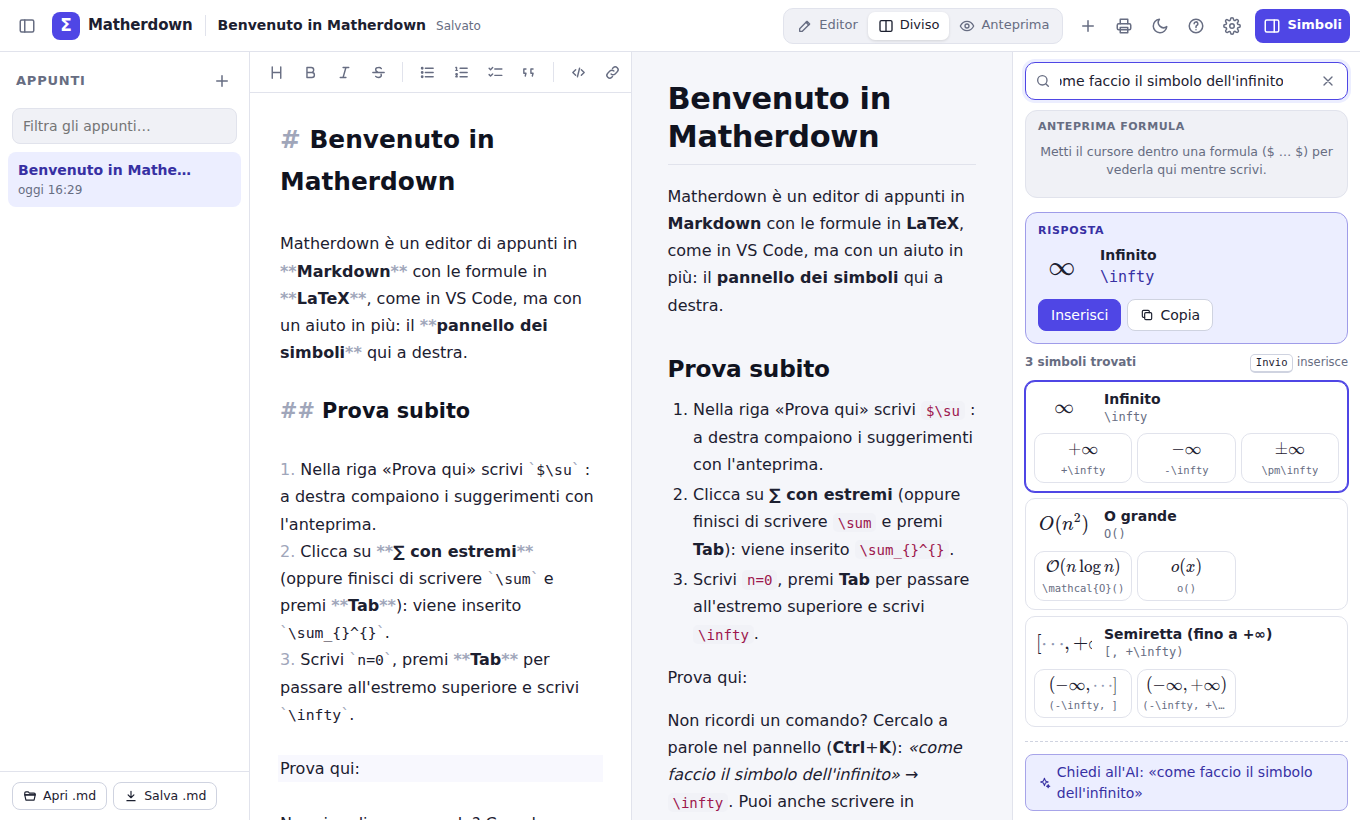
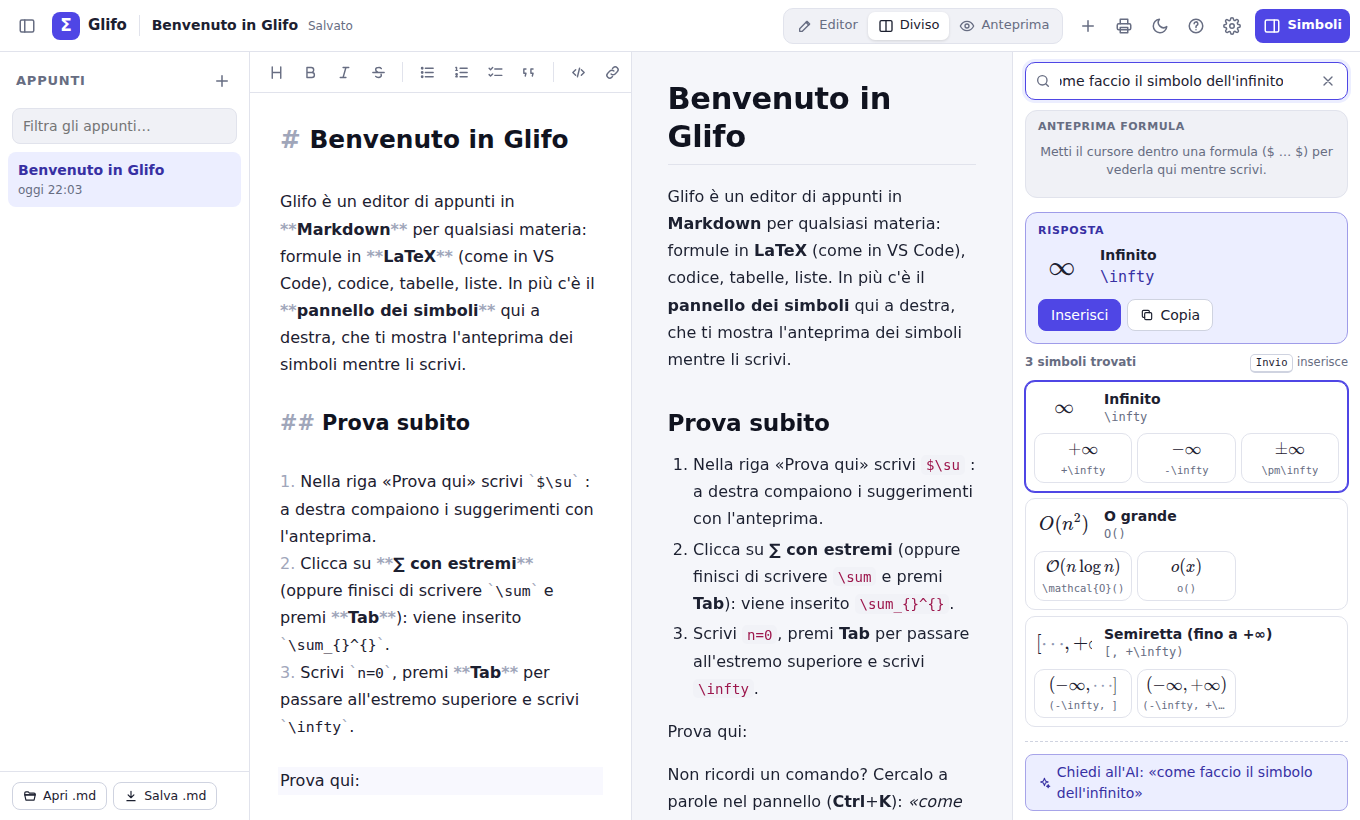
Nuovo nome: Glifo
Il progetto non è solo per la matematica (analisi, statistica, fisica,
programmazione…), quindi cambia nome da Matherdown a Glifo.

- Nome aggiornato in app, manifest PWA, pagina, pacchetto, README e schermate.
- Dati salvati: le chiavi passano da "matherdown.*" a "glifo.*"; all'avvio
  quelle vecchie vengono copiate sotto il nuovo nome, così nessun appunto
  va perso (test in tests/storage.test.ts).
- Nota di benvenuto riscritta con esempi di più materie, anche codice Java.

Claude-Session: https://claude.ai/code/session_01RXPM1KnincAVgBvXaYLYqS

diff --git a/src/main.ts b/src/main.ts
@@ -6,7 +6,7 @@ import { MarkdownEditor } from './editor/editor'
 import { deriveTitle, NotesStore, type Note } from './store/notes'
 import { loadSettings, saveSettings, type Settings, type ViewMode } from './store/settings'
 import { downloadText, fileNameFor, openMarkdownFiles, saveMarkdownFile } from './store/files'
-import { storageAvailable } from './store/storage'
+import { migrateKeyPrefix, storageAvailable } from './store/storage'
 import { ICONS, h, icon } from './ui/dom'
 import { confirmDialog, openHelpDialog, openSettingsDialog } from './ui/dialogs'
 import { inClaudeViewer } from './host'
@@ -15,6 +15,9 @@ import { Preview } from './ui/preview'
 import { SidePanel } from './ui/sidePanel'
 import { toast } from './ui/toast'
 import { createToolbar } from './ui/toolbar'
+
+// Il progetto si chiamava Matherdown: recupera gli appunti salvati con il vecchio nome.
+migrateKeyPrefix('matherdown.', 'glifo.')
 
 const settings: Settings = loadSettings()
 const store = new NotesStore()
@@ -90,7 +93,7 @@ const topbar = h(
     'div',
     { class: 'brand' },
     h('span', { class: 'brand-mark', attrs: { 'aria-hidden': 'true' } }, 'Σ'),
-    h('span', { class: 'brand-name' }, 'Matherdown'),
+    h('span', { class: 'brand-name' }, 'Glifo'),
   ),
   h('div', { class: 'doc-info' }, titleEl, statusEl),
   h('div', { class: 'topbar-spacer' }),
@@ -270,7 +273,7 @@ function flushSave(): void {
   const ok = store.save(active.id, content)
   active.title = deriveTitle(content)
   titleEl.textContent = active.title
-  document.title = `${active.title} · Matherdown`
+  document.title = `${active.title} · Glifo`
   statusEl.textContent = ok ? 'Salvato' : 'Non salvato!'
   if (!ok && !saveWarningShown) {
     saveWarningShown = true
@@ -309,7 +312,7 @@ function loadNote(id: string): void {
   editor.setDoc(note.content)
   preview.update(note.content, true)
   titleEl.textContent = note.title
-  document.title = `${note.title} · Matherdown`
+  document.title = `${note.title} · Glifo`
   statusEl.textContent = 'Salvato'
   notesPanel.refresh(id)
   if (notesOverlay.matches) setPanels({ notesOpen: false })
@@ -405,9 +408,9 @@ function printNote(): void {
 
 function backup(): void {
   flushSave()
-  const data = JSON.stringify({ app: 'matherdown', version: 1, exportedAt: new Date().toISOString(), notes: store.exportAll() }, null, 2)
+  const data = JSON.stringify({ app: 'glifo', version: 1, exportedAt: new Date().toISOString(), notes: store.exportAll() }, null, 2)
   const date = new Date().toISOString().slice(0, 10)
-  void downloadText(`matherdown-backup-${date}.json`, data, 'application/json')
+  void downloadText(`glifo-backup-${date}.json`, data, 'application/json')
 }
 
 async function restore(): Promise<void> {
@@ -424,7 +427,7 @@ async function restore(): Promise<void> {
       notesPanel.refresh(active.id)
       toast(`Ripristinati ${notes.length} appunti`)
     } catch {
-      toast('Il file non sembra un backup di Matherdown.', 'error')
+      toast('Il file non sembra un backup di Glifo.', 'error')
     }
   })
   input.click()
@@ -445,6 +448,6 @@ window.addEventListener('keydown', (ev) => {
   }
 })
 
-document.title = `${active.title} · Matherdown`
+document.title = `${active.title} · Glifo`
 // Su telefoni e tablet non apriamo la tastiera appena si carica la pagina.
 if (window.matchMedia('(pointer: fine)').matches) editor.focus()

diff --git a/src/store/storage.ts b/src/store/storage.ts
@@ -8,7 +8,7 @@ let available: boolean | null = null
 function hasLocalStorage(): boolean {
   if (available !== null) return available
   try {
-    const k = '__matherdown_test__'
+    const k = '__glifo_test__'
     localStorage.setItem(k, '1')
     localStorage.removeItem(k)
     available = true
@@ -67,4 +67,30 @@ export function readJson<T>(key: string, fallback: T): T {
 
 export function writeJson(key: string, value: unknown): boolean {
   return writeItem(key, JSON.stringify(value))
+}
+
+/**
+ * Il progetto prima si chiamava "Matherdown": sposta i dati salvati con le
+ * vecchie chiavi sotto quelle nuove, così nessun appunto va perso dopo il
+ * cambio di nome. Va chiamata all'avvio, prima di leggere note e impostazioni.
+ */
+export function migrateKeyPrefix(oldPrefix: string, newPrefix: string): void {
+  if (!hasLocalStorage()) return
+  try {
+    const keys: string[] = []
+    for (let i = 0; i < localStorage.length; i++) {
+      const k = localStorage.key(i)
+      if (k?.startsWith(oldPrefix)) keys.push(k)
+    }
+    for (const k of keys) {
+      const target = newPrefix + k.slice(oldPrefix.length)
+      const value = localStorage.getItem(k)
+      if (value !== null && localStorage.getItem(target) === null) localStorage.setItem(target, value)
+    }
+    // Si cancella solo dopo aver copiato tutto: se lo spazio finisce a metà,
+    // i vecchi dati restano e la copia riprende al prossimo avvio.
+    for (const k of keys) localStorage.removeItem(k)
+  } catch {
+    /* i vecchi dati restano dove sono */
+  }
 }

diff --git a/vite.config.ts b/vite.config.ts
@@ -3,13 +3,13 @@ import { VitePWA } from 'vite-plugin-pwa'
 
 declare const process: { env: Record<string, string | undefined> }
 
-// MATHERDOWN_NO_PWA=1 crea una build senza service worker (utile per
+// GLIFO_NO_PWA=1 crea una build senza service worker (utile per
 // pubblicare una demo dentro un'altra pagina, dove i service worker non sono ammessi).
-const withPwa = !process.env.VITEST && !process.env.MATHERDOWN_NO_PWA
+const withPwa = !process.env.VITEST && !process.env.GLIFO_NO_PWA
 
 export default defineConfig({
   // Percorsi relativi: il sito funziona anche da una sottocartella
-  // (es. GitHub Pages su /matherdown/) o aprendo la build da un altro host.
+  // (es. GitHub Pages su /glifo/) o aprendo la build da un altro host.
   base: './',
   build: {
     target: 'es2022',
@@ -22,9 +22,9 @@ export default defineConfig({
           registerType: 'autoUpdate',
           includeAssets: ['favicon.svg', 'apple-touch-icon.png'],
           manifest: {
-            name: 'Matherdown – appunti con formule',
-            short_name: 'Matherdown',
-            description: 'Appunti in Markdown con formule LaTeX: anteprima dei simboli, suggerimenti e ricerca in italiano.',
+            name: 'Glifo – appunti universitari',
+            short_name: 'Glifo',
+            description: 'Appunti in Markdown per ogni materia: formule LaTeX con anteprima dei simboli, codice, tabelle.',
             lang: 'it',
             start_url: '.',
             scope: '.',

diff --git a/tests/storage.test.ts b/tests/storage.test.ts
@@ -1,0 +1,34 @@
+// @vitest-environment jsdom
+import { beforeEach, describe, expect, it } from 'vitest'
+import { migrateKeyPrefix } from '../src/store/storage'
+
+beforeEach(() => localStorage.clear())
+
+describe('cambio di nome (Matherdown → Glifo)', () => {
+  it('sposta note e impostazioni sulle nuove chiavi', () => {
+    localStorage.setItem('matherdown.notes.v1', '[{"id":"a"}]')
+    localStorage.setItem('matherdown.note.v1.a', '# Analisi 1')
+    localStorage.setItem('matherdown.settings.v1', '{"theme":"dark"}')
+    localStorage.setItem('altro', 'resta')
+
+    migrateKeyPrefix('matherdown.', 'glifo.')
+
+    expect(localStorage.getItem('glifo.notes.v1')).toBe('[{"id":"a"}]')
+    expect(localStorage.getItem('glifo.note.v1.a')).toBe('# Analisi 1')
+    expect(localStorage.getItem('glifo.settings.v1')).toBe('{"theme":"dark"}')
+    expect(localStorage.getItem('matherdown.notes.v1')).toBeNull()
+    expect(localStorage.getItem('altro')).toBe('resta')
+  })
+
+  it('non sovrascrive dati già presenti con il nuovo nome', () => {
+    localStorage.setItem('glifo.settings.v1', '{"theme":"light"}')
+    localStorage.setItem('matherdown.settings.v1', '{"theme":"dark"}')
+    migrateKeyPrefix('matherdown.', 'glifo.')
+    expect(localStorage.getItem('glifo.settings.v1')).toBe('{"theme":"light"}')
+  })
+
+  it('senza vecchi dati non fa nulla', () => {
+    migrateKeyPrefix('matherdown.', 'glifo.')
+    expect(localStorage.length).toBe(0)
+  })
+})

diff --git a/index.html b/index.html
@@ -3,15 +3,15 @@
   <head>
     <meta charset="UTF-8" />
     <meta name="viewport" content="width=device-width, initial-scale=1.0, viewport-fit=cover" />
-    <title>Matherdown</title>
-    <meta name="description" content="Appunti in Markdown con formule LaTeX: anteprima dei simboli mentre scrivi, suggerimenti e ricerca in italiano." />
+    <title>Glifo</title>
+    <meta name="description" content="Appunti universitari in Markdown per ogni materia: formule LaTeX con anteprima dei simboli, codice, tabelle. Suggerimenti e ricerca in italiano." />
     <meta name="theme-color" content="#4f46e5" />
     <link rel="icon" href="./favicon.svg" type="image/svg+xml" />
     <link rel="apple-touch-icon" href="./apple-touch-icon.png" />
   </head>
   <body>
     <div id="app">
-      <noscript>Matherdown ha bisogno di JavaScript per funzionare.</noscript>
+      <noscript>Glifo ha bisogno di JavaScript per funzionare.</noscript>
     </div>
     <script type="module" src="/src/main.ts"></script>
   </body>

diff --git a/src/ui/dialogs.ts b/src/ui/dialogs.ts
@@ -157,7 +157,7 @@ export function openSettingsDialog(deps: SettingsDialogDeps): void {
         h(
           'p',
           { class: 'field-help' },
-          'Se pubblichi Matherdown per altri studenti, puoi mettere la chiave in un piccolo server (es. un Cloudflare Worker) e indicarne qui l\'indirizzo: così nessuno deve inserire la propria chiave.',
+          'Se pubblichi Glifo per altri studenti, puoi mettere la chiave in un piccolo server (es. un Cloudflare Worker) e indicarne qui l\'indirizzo: così nessuno deve inserire la propria chiave.',
         ),
         h('input', {
           attrs: { type: 'url', value: s.apiBaseUrl, placeholder: 'https://mio-proxy.example.workers.dev' },

diff --git a/src/ai/assistant.ts b/src/ai/assistant.ts
@@ -28,7 +28,7 @@ export interface AiResult {
 
 export class AiError extends Error {}
 
-const SYSTEM_PROMPT = `Sei l'assistente di Matherdown, un editor di appunti universitari in Markdown in cui le formule si scrivono in LaTeX tra $…$ e vengono disegnate con KaTeX.
+const SYSTEM_PROMPT = `Sei l'assistente di Glifo, un editor di appunti universitari in Markdown in cui le formule si scrivono in LaTeX tra $…$ e vengono disegnate con KaTeX.
 
 Lo studente ti chiede come scrivere un simbolo, una notazione o una formula. Rispondi con il codice LaTeX da inserire dentro la formula, senza i delimitatori $.
 

diff --git a/src/symbols/data/misc.ts b/src/symbols/data/misc.ts
@@ -52,7 +52,7 @@ export const misc = [
 export const chemistry = [
   ch(r`\ce{#}`, 'formula chimica', 'formula chimica, chimica, molecola, composto, mhchem, ce', {
     w: 5,
-    note: 'Usa l\'estensione mhchem: funziona in Matherdown ma non nell\'anteprima standard di VS Code.',
+    note: 'Usa l\'estensione mhchem: funziona in Glifo ma non nell\'anteprima standard di VS Code.',
     f: [[r`\ce{#}`, 'formula', r`\ce{H2SO4}`], [r`\ce{#^{#}}`, 'ione', r`\ce{SO4^{2-}}`]],
   }),
   ch(r`\ce{# -> #}`, 'reazione chimica', 'reazione, reazione chimica, freccia di reazione, reagenti prodotti', {

diff --git a/src/store/notes.ts b/src/store/notes.ts
@@ -11,9 +11,9 @@ export interface Note extends NoteMeta {
   content: string
 }
 
-const INDEX_KEY = 'matherdown.notes.v1'
-const NOTE_PREFIX = 'matherdown.note.v1.'
-const ACTIVE_KEY = 'matherdown.active.v1'
+const INDEX_KEY = 'glifo.notes.v1'
+const NOTE_PREFIX = 'glifo.note.v1.'
+const ACTIVE_KEY = 'glifo.active.v1'
 
 /** Titolo della nota: il primo titolo Markdown, altrimenti la prima riga. */
 export function deriveTitle(content: string): string {

diff --git a/src/host.ts b/src/host.ts
@@ -1,6 +1,6 @@
 /**
  * Integrazione facoltativa con il visualizzatore di claude.ai, per quando
- * Matherdown è pubblicato come demo (Artifact). Fuori da claude.ai
+ * Glifo è pubblicato come demo (Artifact). Fuori da claude.ai
  * `window.claude` non esiste e tutte queste funzioni restituiscono null:
  * l'app usa i suoi percorsi normali.
  */

diff --git a/src/store/settings.ts b/src/store/settings.ts
@@ -24,7 +24,7 @@ export const AI_MODELS = [
   { id: 'claude-haiku-4-5', label: 'Claude Haiku 4.5 (il più economico)' },
 ] as const
 
-const KEY = 'matherdown.settings.v1'
+const KEY = 'glifo.settings.v1'
 
 export const DEFAULT_SETTINGS: Settings = {
   theme: 'auto',

diff --git a/README.md b/README.md
@@ -1,10 +1,11 @@
-# Matherdown
+# Glifo
 
-**Appunti universitari in Markdown, con le formule LaTeX che si scrivono da sole.**
+**Appunti universitari in Markdown, per ogni materia. Le formule LaTeX si scrivono quasi da sole.**
 
-Matherdown è un editor di appunti che funziona nel browser (e si può installare come app).
-Si scrive in Markdown come in VS Code, con le formule in LaTeX tra `$ … $`, ma con un
-**pannello laterale** che mostra l'anteprima dei simboli mentre li scrivi:
+Glifo è un editor di appunti che funziona nel browser (e si può installare come app).
+Si scrive in Markdown come in VS Code (formule in LaTeX tra `$ … $`, codice colorato,
+tabelle, liste), ma con un **pannello laterale** che mostra l'anteprima dei simboli mentre
+li scrivi:
 
 - scrivi `\su` → a destra compaiono `\sum`, `\sum_{}^{}`, `\sum_{}`… con l'anteprima
   (la sommatoria con i puntini sopra e sotto, per far capire dove vanno gli estremi);
@@ -12,18 +13,18 @@ Si scrive in Markdown come in VS Code, con le formule in LaTeX tra `$ … $`, ma
 - con **Tab** salti da un segnaposto all'altro: `\sum_{n=0}^{\infty}` si scrive in pochi tasti;
 - non ricordi il comando? Lo **cerchi a parole**: «come faccio il simbolo dell'infinito» → `\infty`.
 
-**Usala subito: <https://diodialtro.github.io/matherdown/>**
+**Usala subito: <https://diodialtro.github.io/glifo/>**
 
 ![Suggerimenti mentre si scrive \su](docs/suggerimenti.png)
 
 ## Usarla tutti i giorni
 
-Non serve installare nulla: basta aprire <https://diodialtro.github.io/matherdown/> dal
+Non serve installare nulla: basta aprire <https://diodialtro.github.io/glifo/> dal
 browser. Per averla come un'app vera, con la sua icona e funzionante anche senza internet:
 
 | Dispositivo | Come installarla |
 | --- | --- |
-| Computer (Chrome o Edge) | icona **Installa** a destra nella barra degli indirizzi (oppure, nel menu del browser, la voce *Installa Matherdown*) |
+| Computer (Chrome o Edge) | icona **Installa** a destra nella barra degli indirizzi (oppure, nel menu del browser, la voce *Installa Glifo*) |
 | Android (Chrome) | menu ⋮ → **Installa app** (o *Aggiungi a schermata Home*) |
 | iPhone / iPad (Safari) | pulsante Condividi → **Aggiungi alla schermata Home** |
 | Mac (Safari) | menu *File* → **Aggiungi al Dock** |
@@ -111,7 +112,7 @@ La ricerca dei simboli è locale: funziona sempre, anche senza internet, ed è g
 L'assistente AI serve solo per le domande che la ricerca non capisce e usa l'API di Claude:
 
 1. crea una chiave API su <https://console.anthropic.com/settings/keys>;
-2. in Matherdown apri **Impostazioni → Assistente AI** e incollala;
+2. in Glifo apri **Impostazioni → Assistente AI** e incollala;
 3. nel pannello dei simboli scrivi la domanda e premi **Chiedi all'AI** (o Ctrl+Invio).
 
 La chiave resta salvata **solo nel tuo browser** e viene inviata soltanto all'API di
@@ -120,7 +121,7 @@ in fretta); nelle impostazioni puoi scegliere Sonnet 5.5 o Haiku 4.5, più econo
 richiesta viene rifiutata dai filtri di sicurezza, l'app chiede all'API di riprovare in
 automatico con un altro modello (`fallbacks: "default"`).
 
-Se pubblichi Matherdown per altri studenti e non vuoi che ognuno usi la propria chiave, puoi
+Se pubblichi Glifo per altri studenti e non vuoi che ognuno usi la propria chiave, puoi
 mettere la chiave in un piccolo server "proxy" (per esempio un Cloudflare Worker) e indicarne
 l'indirizzo in **Impostazioni → Avanzate**.
 
@@ -129,7 +130,7 @@ l'indirizzo in **Impostazioni → Avanzate**.
 Gli appunti sono normali file `.md`: puoi aprirli in VS Code, Obsidian o su GitHub.
 Il riconoscimento di `$ … $` e `$$ … $$` ricalca quello dell'anteprima Markdown di VS Code
 (stesso motore, KaTeX). Unica eccezione: la chimica con `\ce{…}` (estensione mhchem) funziona
-in Matherdown ma non nell'anteprima standard di VS Code.
+in Glifo ma non nell'anteprima standard di VS Code.
 
 ## Com'è fatto
 
